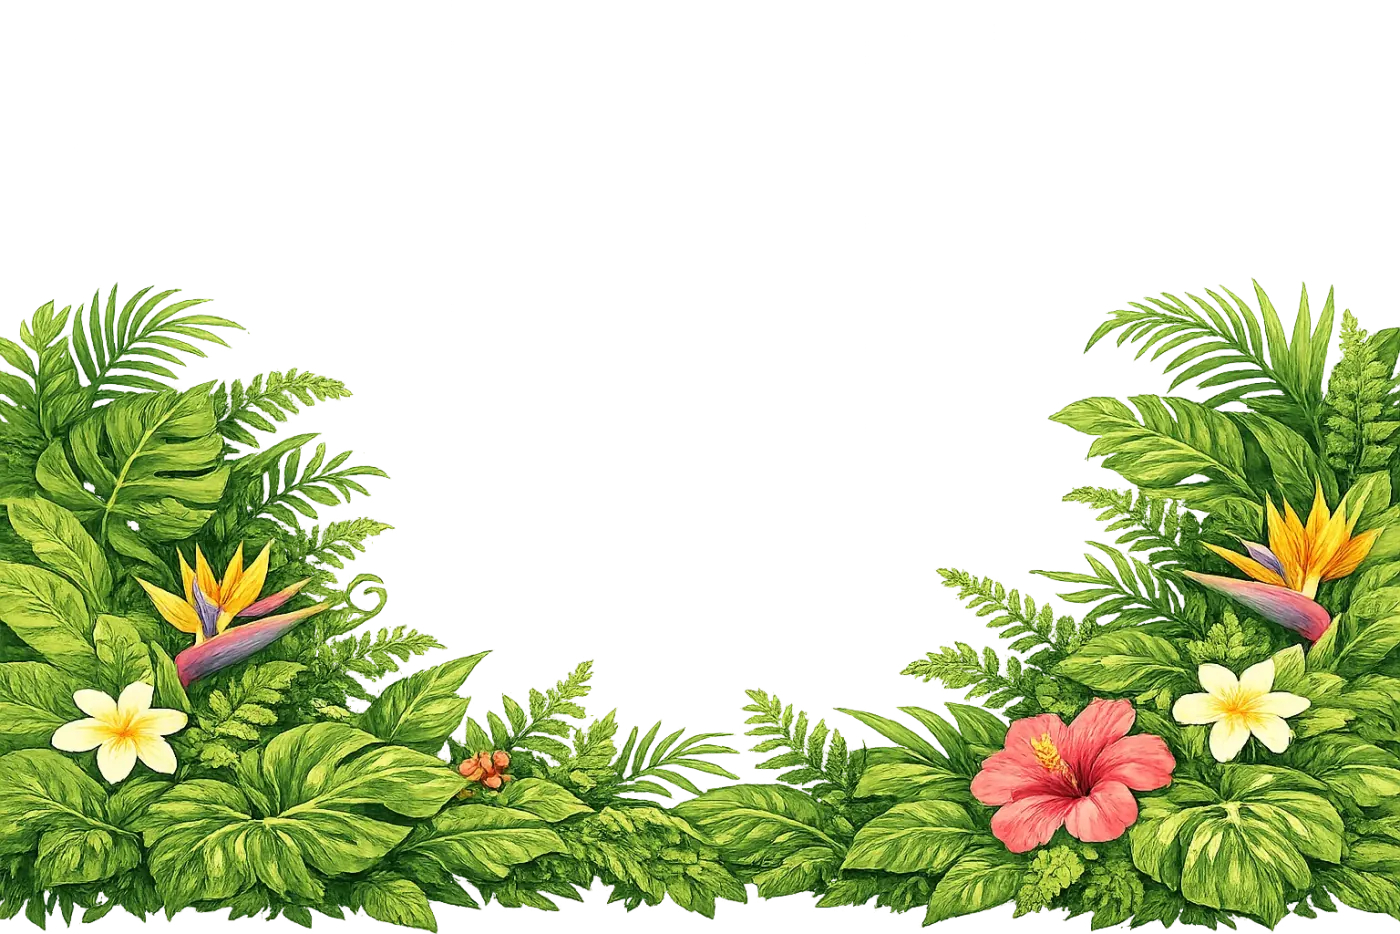
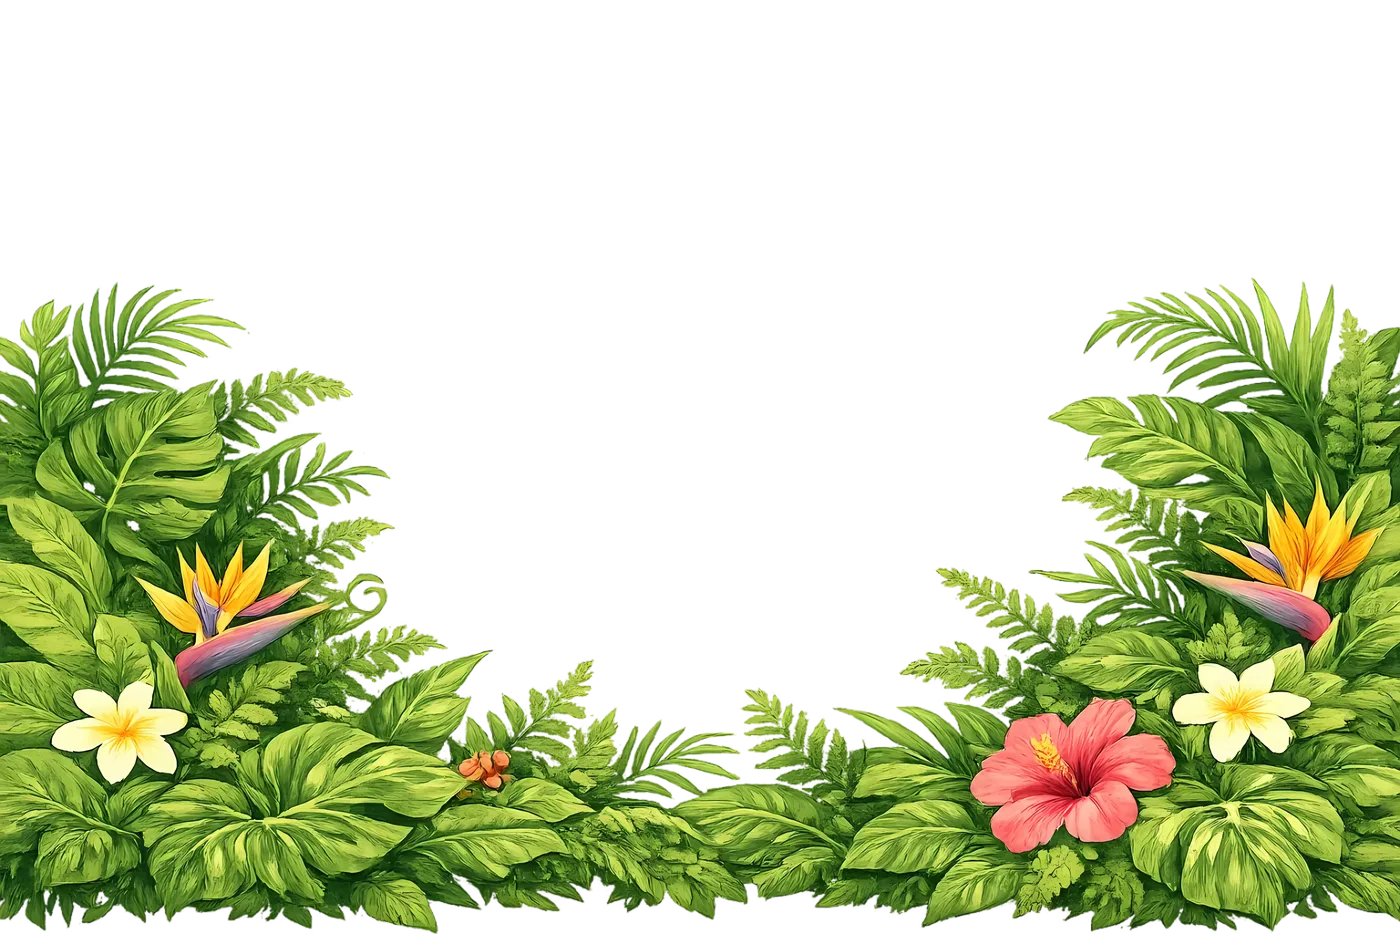
feat(foliage): sharp art on phones and retina via 4x upscale + image-set
The 1400px foliage is drawn up to ~3800 device px wide on a 3x phone, so it
looked soft and blocky. Upscaled 4x with Real-ESRGAN (x4plus-anime model),
then exported a 1400px 1x (378KB, slightly sharper than before) and a
2800px 2x (1.1MB). image-set() sends the 2x only to high-density screens;
masks read the same variable so the tint stays aligned. Share card now
renders from the 2x art.

diff --git a/src/styles/global.css b/src/styles/global.css
@@ -458,6 +458,15 @@ footer.site-foot {
   transform: translate(-50%, 0);
   will-change: transform;
 }
+/* The layer is drawn ~1270–2400 device px wide on phones and retina screens,
+   so the 1400px art upscales visibly there. Only high-density screens pull the
+   2800px file (~1.1MB); everyone else keeps the 1x. The masks read the same
+   variable, so tint and darken stay pixel-aligned with the art. */
+@supports (background-image: image-set(url(x.webp) 1x)) {
+  .foliage-layer {
+    --layer-img: image-set(url(/footer-foliage.webp) 1x, url(/footer-foliage@2x.webp) 2x);
+  }
+}
 /* nighttime foliage — cool moonlit blue multiply always present; opacity
    scales up in dark mode so the ::before can crossfade between themes. */
 .foliage-layer::before,
